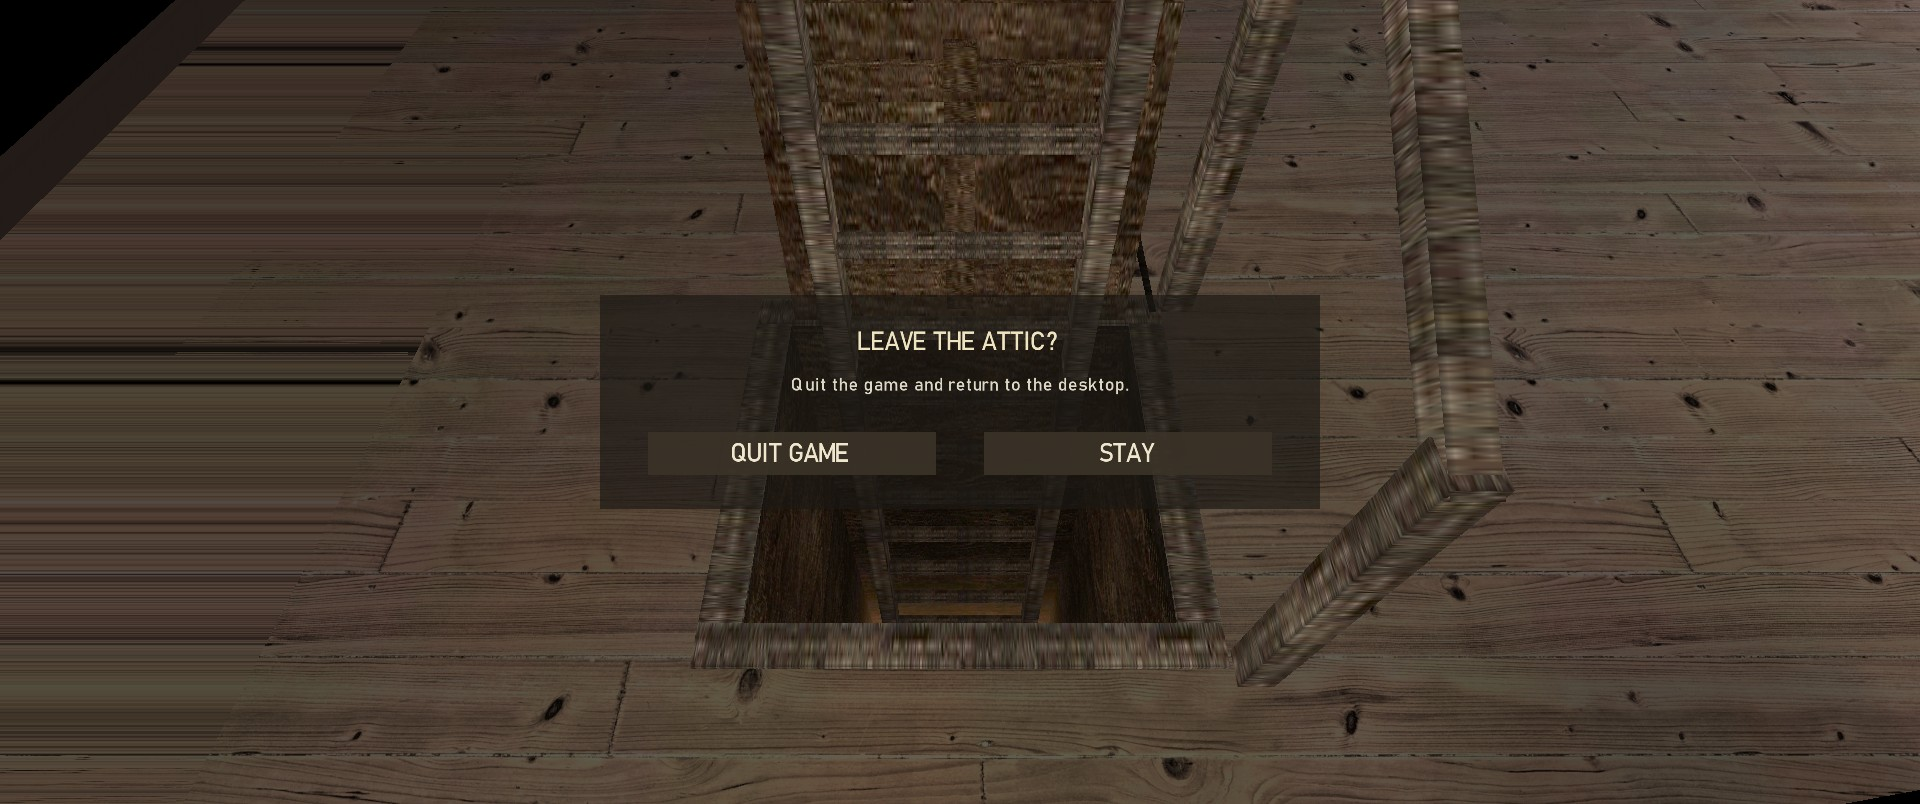
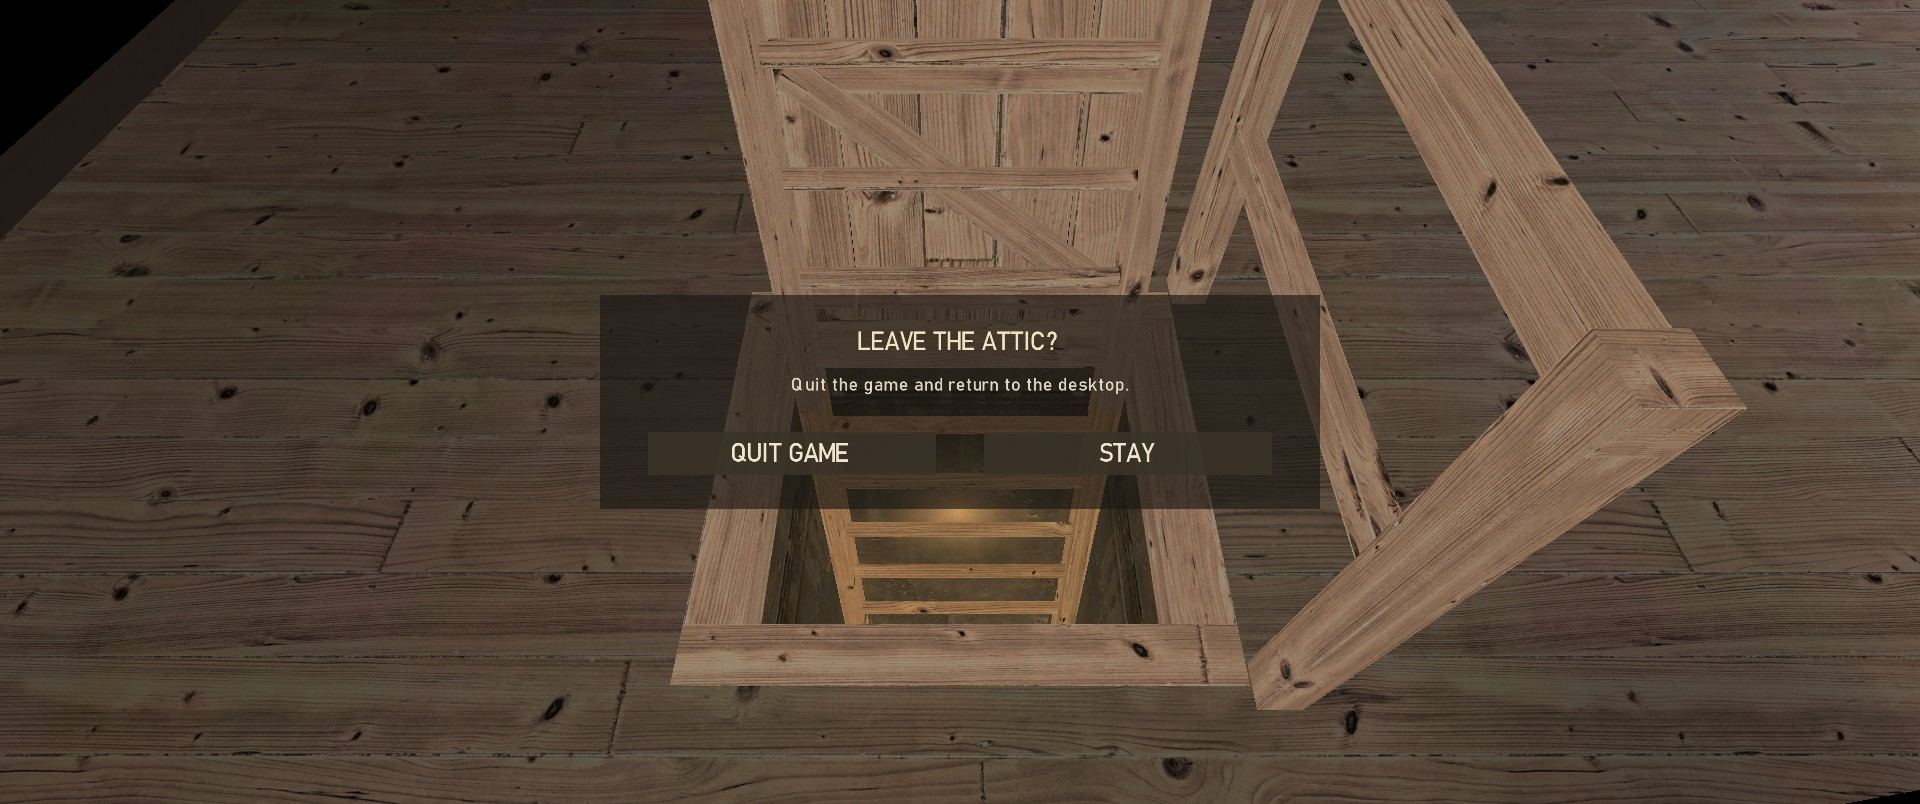
polish73: hatch toned to the lightmapped floor beside it (measured in-game, 1.29x after 1.45x), hover ~1.35x; re-shot stills; menus pak 69e7c4cf

diff --git a/docs/proposals/attic_polish_2026-11-02/tools/gen_hatch73.py b/docs/proposals/attic_polish_2026-11-02/tools/gen_hatch73.py
@@ -314,8 +314,8 @@ def shader(name, clamp=False, extra=""):
     SH.append("%s\n{\n\tnopicmip\n\tcull none\n\t{\n\t\t%s textures/menu/%s.jpg\n\t\trgbGen identity\n%s\t}\n}" % (name, "clampmap" if clamp else "map", name, extra))
 
 
-ROOM = (0.56, 0.51, 0.47)              # the boards' level beside the opening (measured in-game: the floor there is ~0.69 x the first cut)
-LIT = (0.78, 0.69, 0.58)               # hover: the lamp turned up, ~1.35 x and warmer (the first cut blew out)
+ROOM = (0.42, 0.38, 0.37)              # the boards' level beside the opening, measured twice in-game against the lightmapped floor there
+LIT = (0.58, 0.51, 0.45)               # hover: ~1.35 x and warmer
 for sfx, k in (("", ROOM), ("_lit", LIT)):
     bake("hzm_hatch_wood%s" % sfx, ALB, k)
     shader("hzm_hatch_wood%s" % sfx)
